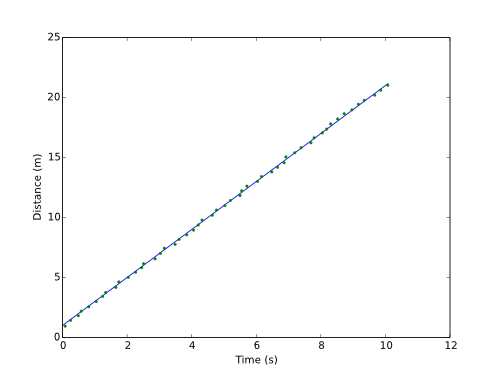
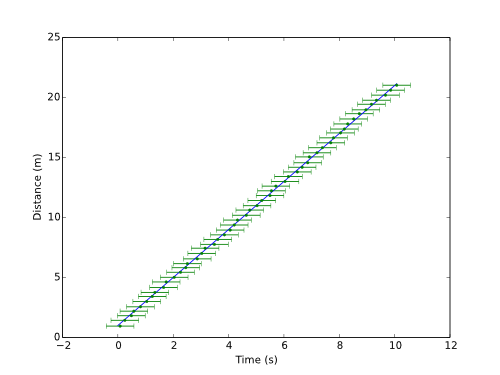
Added support for errors and error bars.

diff --git a/scipy_data_fitting/data.py b/scipy_data_fitting/data.py
@@ -70,10 +70,68 @@ class Data:
         self._array = value
 
     @property
+    def error(self):
+        """
+        Error associated with the data as a two element tuple of the form `(x_error, y_error)`.
+
+        Both `x_error` and `y_error` is a [`numpy.ndarray`][1] or `None`.
+
+        The array dimensions depend on how the error is specified:
+
+        1. Symmetric constant error is a zero dimensional array: `error`.
+        2. Asymmetric constant error is a one dimensional array: `[lower_error, upper_error]`.
+        3. Symmetric error which varies for each point is an array with length equal
+          to the number of points; each element is a zero dimensional array: `error`
+        4. Asymmetric error which varies for each point is an array with length equal
+          to the number of points; each element is a one dimensional array: `[lower_error, upper_error]`.
+
+        This property can be set manually. If setting constant errors (cases 1 and 2 above),
+        it is not necessary to explicitly use [`numpy.ndarray`][1] as the type will be converted automatically.
+
+        For error that varies at each point (cases 3 and 4 above),
+        the errors can be loaded from the file given by `scipy_data_fitting.Data.path`
+        setting `scipy_data_fitting.Data.error_columns`.
+
+        Defaults to `(None, None)` unless `scipy_data_fitting.Data.error_columns` is set,
+        in which case this will be set on first access by calling `scipy_data_fitting.Data.load_error`.
+
+        When loaded from file, the x and y values will be scaled according
+        to `scipy_data_fitting.Data.scale`.
+
+        Examples:
+
+            #!python
+            # (x_error, y_error)
+            (0.1, 0.5)
+
+            # (x_error, no y_error)
+            (0.1, None)
+
+            # ([x_lower_error, x_upper_error], y_error)
+            ([0.1, 0.5], 2)
+
+            # ([x_lower_error, x_upper_error], [y_lower_error, y_upper_error])
+            ([0.1, 0.5], [2, 0.5])
+
+        [1]: http://docs.scipy.org/doc/numpy/reference/generated/numpy.ndarray.html
+        """
+        if not hasattr(self, '_error'):
+            if any(v is not None for v in self.error_columns):
+                self._error = self.load_error()
+            else:
+                return (None, None)
+        return self._error
+
+    @error.setter
+    def error(self, value):
+        self._error = tuple( numpy.array(v) if v is not None else None for v in value )
+
+    @property
     def scale(self):
         """
         Tuple `(x_scale, y_scale)` that defines how to scale data
-        imported by `scipy_data_fitting.Data.load_data`.
+        imported by `scipy_data_fitting.Data.load_data`
+        and `scipy_data_fitting.Data.load_error`.
 
         If a scale is specified as a string, it will treated as a named physical constant
         and converted to the corresponding number using [`scipy.constants`][1].
@@ -86,6 +144,43 @@ class Data:
     @scale.setter
     def scale(self, value):
         self._scale = tuple( scipy_data_fitting.core.get_constant(v) for v in value )
+
+    @property
+    def error_columns(self):
+        """
+        Two element tuple that defines what columns in the file given
+        by `scipy_data_fitting.Data.path` are the error values for each data point.
+
+        The first element corresponds to the x error and the second to the y error.
+
+        Each element is either an integer which gives the column,
+        a two element tuple of integers, or `None`.
+
+        In Python, indexes are zero-based, so the first column is `0`.
+
+        Examples:
+
+            #!python
+            # (x_error, y_error)
+            (2, 3)
+
+            # (x_error, no y_error)
+            (2, None)
+
+            # ((x_lower_error, x_upper_error), y_error)
+            ((2, 3), 4)
+
+            # ((x_lower_error, x_upper_error), (y_lower_error, y_upper_error))
+            ((2, 3), (4, 5))
+
+        Defaults to `(None, None)`.
+        """
+        if not hasattr(self, '_error_columns'): return (None, None)
+        return self._error_columns
+
+    @error_columns.setter
+    def error_columns(self, value):
+        self._error_columns = value
 
     @property
     def genfromtxt_args(self):
@@ -116,6 +211,28 @@ class Data:
     def genfromtxt_args(self, value):
         self._genfromtxt_args = value
 
+    @property
+    def genfromtxt_args_error(self):
+        """
+        Passed as keyword arguments to [`numpy.genfromtxt`][1]
+        when called by `scipy_data_fitting.Data.load_error`.
+
+        Even if defined here, the `usecols` value will always be reset based
+        on `scipy_data_fitting.Data.error_columns` before being passed to [`numpy.genfromtxt`][1].
+
+        If not set, this defaults to a copy of
+        `scipy_data_fitting.Data.genfromtxt_args` on first access.
+
+        [1]: http://docs.scipy.org/doc/numpy/reference/generated/numpy.genfromtxt.html
+        """
+        if not hasattr(self, '_genfromtxt_args_error'):
+            self._genfromtxt_args_error = self.genfromtxt_args.copy()
+        return self._genfromtxt_args_error
+
+    @genfromtxt_args_error.setter
+    def genfromtxt_args_error(self, value):
+        self._genfromtxt_args_error = value
+
     def load_data(self):
         """
         Loads data from `scipy_data_fitting.Data.path` using [`numpy.genfromtxt`][1]
@@ -132,3 +249,46 @@ class Data:
         array = numpy.genfromtxt(self.path, **self.genfromtxt_args)
         for n, scale in enumerate(self.scale): array[n,:] *= self.scale[n]
         return array
+
+    def load_error(self):
+        """
+        Loads error values from `scipy_data_fitting.Data.path` using [`numpy.genfromtxt`][1]
+        and returns a two element tuple where each element is of a form described by
+        cases 3 and 4 in `scipy_data_fitting.Data.error`.
+
+        The columns to import are set by `scipy_data_fitting.Data.error_columns`.
+
+        Values are scaled according to `scipy_data_fitting.Data.scale`.
+
+        Arguments to [`numpy.genfromtxt`][1] are controlled
+        by `scipy_data_fitting.Data.genfromtxt_args_error`.
+
+        [1]: http://docs.scipy.org/doc/numpy/reference/generated/numpy.genfromtxt.html
+        """
+        usecols = []
+        for v in self.error_columns:
+            if v is None:
+                pass
+            elif isinstance(v, int):
+                usecols.append(v)
+            elif len(v) is 2:
+                for n in v: usecols.append(n)
+        self.genfromtxt_args_error['usecols'] = tuple(usecols)
+
+        array = numpy.genfromtxt(self.path, **self.genfromtxt_args_error)
+
+        error = []
+        for n, v in enumerate(self.error_columns):
+            if v is None:
+                error.append(None)
+            elif isinstance(v, int):
+                if len(usecols) is 1:
+                    error.append(array * self.scale[n])
+                else:
+                    error.append(array[0] * self.scale[n])
+                    array = numpy.delete(array, (0), axis=(0))
+            elif len(v) is 2:
+                error.append(array[0:2] * self.scale[n])
+                array = numpy.delete(array, (0, 1), axis=(0))
+
+        return tuple(error)

diff --git a/test/test_data.py b/test/test_data.py
@@ -1,4 +1,5 @@
 import csv
+import numpy
 import os
 import tempfile
 
@@ -23,20 +24,30 @@ class TestData():
             ("\t", []),
             ("\t", ['r', 't']),
         ]
-        cls.data_files = [ cls.write_data(*args) for args in test_data_files ]
+        cls.data_files = [ cls.write_data(cls.raw_data_pairs, *args) for args in test_data_files ]
+
+        cls.error = [
+            [0.1, 0.4, 0.6],
+            [0.2, 0.5, 0.9],
+            [0.3, 0.7, 1.1],
+            [0.8, 1.2, 1.5]
+        ]
+        cls.error_pairs = list(zip(*cls.error))
+        cls.error_file = cls.write_data(cls.error_pairs, ',', [])
 
     @classmethod
     def teardown_class(cls):
         for data_file in cls.data_files:
             os.remove(data_file['filename'])
+        os.remove(cls.error_file['filename'])
 
     @classmethod
-    def write_data(cls, delimiter, headers):
+    def write_data(cls, data, delimiter, headers):
         filename = tempfile.mkstemp(prefix='scipy_data_fitting_test_')[1]
         with open(filename, 'w+') as datafile:
             writer = csv.writer(datafile, delimiter=delimiter)
             if headers: writer.writerow(headers)
-            writer.writerows(cls.raw_data_pairs)
+            writer.writerows(data)
 
         return {'delimiter': delimiter, 'headers': headers, 'filename': filename}
 
@@ -76,3 +87,84 @@ class TestData():
         ]
         assert_allclose(data.load_data(), raw_data_scaled)
 
+    def test_error_makes_ndarray(self):
+        data = Data()
+        data.error = (0.1, None)
+        assert_allclose(data.error[0], numpy.array(0.1))
+        eq_(data.error[1], None)
+
+        data.error = ([0.1, 0.2], None)
+        assert_allclose(data.error[0], numpy.array([0.1, 0.2]))
+        eq_(data.error[1], None)
+
+        data.error = (0.1, 0.2)
+        assert_allclose(data.error[0], numpy.array(0.1))
+        assert_allclose(data.error[1], numpy.array(0.2))
+
+        data.error = (0.1, [0.1, 0.2])
+        assert_allclose(data.error[0], numpy.array(0.1))
+        assert_allclose(data.error[1], numpy.array([0.1, 0.2]))
+
+    def test_load_error(self):
+        raw_error = numpy.array(self.error)
+        data = Data()
+        data.path = self.error_file['filename']
+
+        data.error_columns = (1, None)
+        assert_allclose(data.error[0], raw_error[1])
+        eq_(data.error[1], None)
+
+        del data._error
+        data.error_columns = (None, 1)
+        eq_(data.error[0], None)
+        assert_allclose(data.error[1], raw_error[1])
+
+        del data._error
+        data.error_columns = (2, 1)
+        assert_allclose(data.error[0], raw_error[2])
+        assert_allclose(data.error[1], raw_error[1])
+
+        del data._error
+        data.error_columns = ((1, 2), None)
+        assert_allclose(data.error[0], numpy.array([raw_error[1], raw_error[2]]))
+        eq_(data.error[1], None)
+
+        del data._error
+        data.error_columns = (None, (1, 2))
+        eq_(data.error[0], None)
+        assert_allclose(data.error[1], numpy.array([raw_error[1], raw_error[2]]))
+
+        del data._error
+        data.error_columns = ((1, 2), 0)
+        assert_allclose(data.error[0], numpy.array([raw_error[1], raw_error[2]]))
+        assert_allclose(data.error[1], raw_error[0])
+
+        del data._error
+        data.error_columns = (0, (2, 1))
+        assert_allclose(data.error[0], raw_error[0])
+        assert_allclose(data.error[1], numpy.array([raw_error[2], raw_error[1]]))
+
+        del data._error
+        data.error_columns = ((1, 3), (0, 2))
+        assert_allclose(data.error[0], numpy.array([raw_error[1], raw_error[3]]))
+        assert_allclose(data.error[1], numpy.array([raw_error[0], raw_error[2]]))
+
+    def test_load_error_with_scale(self):
+        raw_error = numpy.array(self.error)
+        data = Data()
+        data.path = self.error_file['filename']
+        data.scale = (2, 10)
+
+        data.error_columns = ((1, 2), 0)
+        assert_allclose(data.error[0], 2 * numpy.array([raw_error[1], raw_error[2]]))
+        assert_allclose(data.error[1], 10 * raw_error[0])
+
+        del data._error
+        data.error_columns = (0, (2, 1))
+        assert_allclose(data.error[0], 2 * raw_error[0])
+        assert_allclose(data.error[1], 10 * numpy.array([raw_error[2], raw_error[1]]))
+
+        del data._error
+        data.error_columns = ((1, 3), (0, 2))
+        assert_allclose(data.error[0], 2 * numpy.array([raw_error[1], raw_error[3]]))
+        assert_allclose(data.error[1], 10 * numpy.array([raw_error[0], raw_error[2]]))

diff --git a/scipy_data_fitting/plot.py b/scipy_data_fitting/plot.py
@@ -95,8 +95,15 @@ class Plot:
             plot = self.figure.add_subplot(111)
             pointspace = self.fit.pointspace(num=self.options['points'])
 
+            if any(v is not None for v in self.fit.data.error):
+                plot_data = plot.errorbar
+                if self.fit.data.error[0]: self.options['data']['xerr'] = self.fit.data.error[0]
+                if self.fit.data.error[1]: self.options['data']['yerr'] = self.fit.data.error[1]
+            else:
+                plot_data = plot.plot
+
             plot.plot(*pointspace['fit'], **self.options['fit'])
-            plot.plot(*pointspace['data'], **self.options['data'])
+            plot_data(*pointspace['data'], **self.options['data'])
 
             text = {}
             for v in ('independent', 'dependent'):

diff --git a/examples/basic_linear.py b/examples/basic_linear.py
@@ -3,7 +3,7 @@ from example_helper import save_example_fit
 from scipy_data_fitting import Data, Model, Fit
 
 #
-# Example of a basic linear fit.
+# Example of a basic linear fit with error bars.
 #
 
 name = 'basic_linear'
@@ -11,6 +11,7 @@ name = 'basic_linear'
 # Load data from a csv file.
 data = Data(name)
 data.path = os.path.join('examples','data', 'linear.csv')
+data.error = (0.5, None)
 
 # Create a linear model.
 model = Model(name)

diff --git a/README.md b/README.md
@@ -22,6 +22,7 @@ from scipy_data_fitting import Data, Model, Fit, Plot
 # Load data from a CSV file.
 data = Data('linear')
 data.path = 'linear.csv'
+data.error = (0.5, None)
 
 # Create a linear model.
 model = Model('linear')

diff --git a/CHANGELOG.md b/CHANGELOG.md
@@ -1,5 +1,9 @@
 # Changelog
 
+## HEAD
+
+- Added support for errors and error bars.
+
 ## 0.0.4
 
 - Added basic examples.
